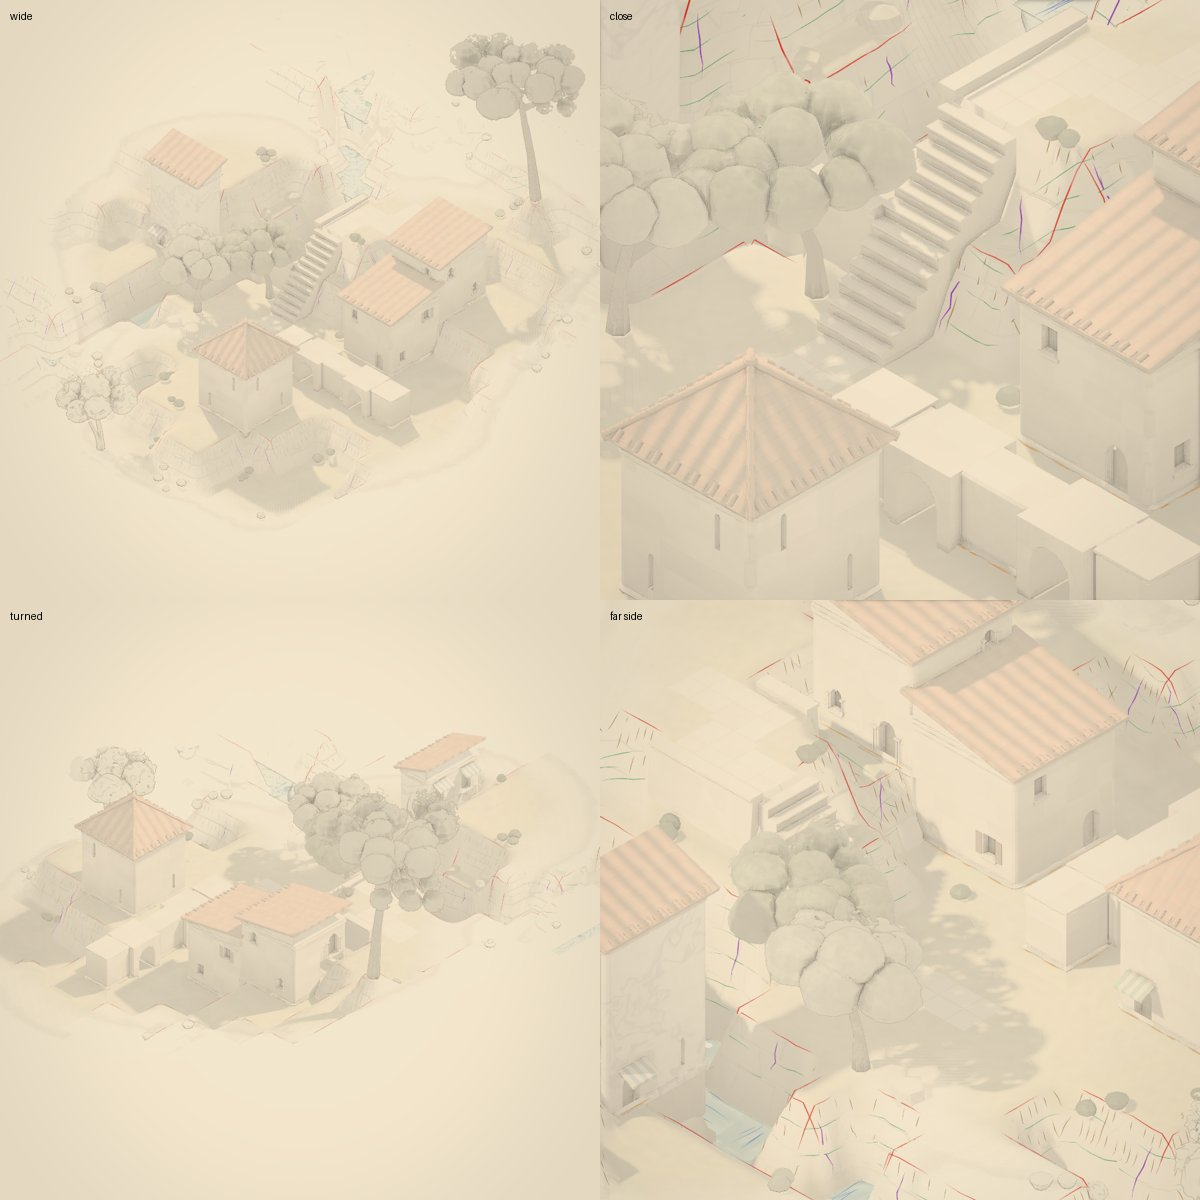
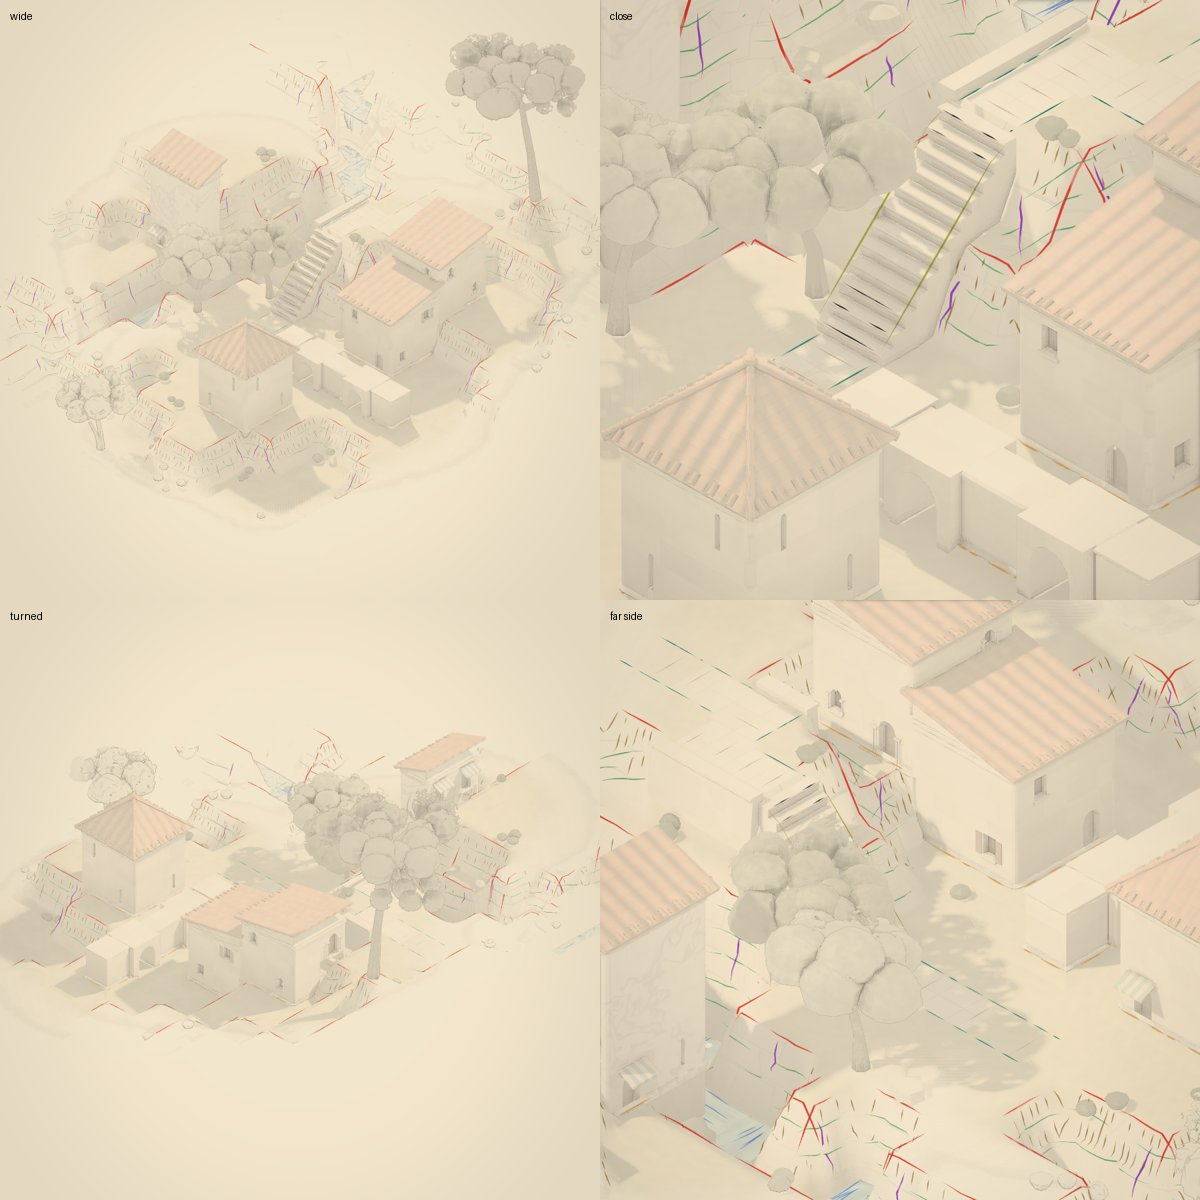
labyrinth: passage marks: treads, strings, way edges and joints, heavier where something happens
From each flight (worn nosings, most at its foot and head; its pitch along
each open side, none between flights laid as one) and each cell a hand-laid
way walks through (edges along its open sides, flag joints across it,
heavier at ends, crossings and where it meets a flight). ?marks colours them;
--print added to the look harness.

Claude-Session: https://claude.ai/code/session_01D2Nx3PayKJtFYoab5A57H3

diff --git a/cells/lab/client/labyrinth/strokes.ts b/cells/lab/client/labyrinth/strokes.ts
@@ -10,6 +10,10 @@
  *   hachures down it between its beds, long and short by turns; its **bedding**, the strata along the face at its
  *   ledges, each a little higher or lower across a **fracture**; and a fracture now and then, a crack down the face;
  * - **retention** (where what's built is founded on the land): its contact, a broken line at its foot;
+ * - **passage** (a flight, and the ways the hand laid, `World.passages`): a flight's worn **tread** nosings, now and
+ *   then, most at its foot and head; its **string**s, its pitch along each side; a way's **edge**s where its sides are
+ *   open, and its flags' **joint**s across it; all heavier where something happens (a way's end, a crossing, where it
+ *   meets a flight), lighter between, so the eye travels along it;
  * - **water**: its **current**, strokes along the way it runs; its **bank**, a line along a steep one; its **fall**,
  *   streaks down the sheet where its bed steps, and the **impact**'s rings in the pool below.
  *
@@ -22,10 +26,10 @@
 import { hash } from '../kit/rng';
 import { outline } from './form';
 import { retaining } from './context';
-import { CENTER, DIRS, type World } from './model';
+import { CENTER, DIRS, unkey, type World } from './model';
 
 /** why a mark is there */
-export const FAM = { rim: 0, hachure: 1, bedding: 2, fracture: 3, contact: 4, current: 5, bank: 6, fall: 7, impact: 8 } as const;
+export const FAM = { rim: 0, hachure: 1, bedding: 2, fracture: 3, contact: 4, current: 5, bank: 6, fall: 7, impact: 8, tread: 9, string: 10, edge: 11, joint: 12 } as const;
 /** a mark's vertex: x, y, z; across it (-1..1); along it (0..1); its family + weight (under 1); how much it holds over
  * the whole picture (0..1); its pick (0..1) */
 export const STROKE_STRIDE = 8;
@@ -177,6 +181,60 @@ export function strokes(w: World, land: StrokeLand): Float32Array {
         ribbon(out, pts, 0.036, FAM.contact, 0.6, 0.3, r());
         s += len + ramp(r, 0.05, 0.3);
       }
+    }
+  }
+
+  // ─── passage: flights and the ways the hand laid ───
+  const smooth = (a: number, b: number, x: number) => { const t = Math.max(0, Math.min(1, (x - a) / (b - a))); return t * t * (3 - 2 * t); };
+  const STEPS = 6;
+  for (const f of w.flights) {
+    const [a, b] = DIRS[f.d], N = f.cells.length * STEPS, [k0, i0, j0] = f.cells[0], r = rng(w.land.seed, k0, i0, j0, f.d, 0x57a);
+    // (a point on the flight: so far up it (u, in cells from its foot's near edge), so far across (wv, 0..1))
+    const pt = (q: number, u: number, wv: number, y: number): V3 => { const [, i, j] = f.cells[q], cx = i + 0.5, cz = j + 0.5; return a ? [cx + a * (u - 0.5) - CENTER, y, cz + (wv - 0.5) - CENTER] : [cx + (wv - 0.5) - CENTER, y, cz + b * (u - 0.5) - CENTER]; };
+    f.cells.forEach(([k], q) => {
+      for (let s = 0; s < STEPS; s++) {
+        const g = q * STEPS + s, busy = 1 - smooth(1, 5, Math.min(g, N - 1 - g)), h = k + (s + 1) / STEPS + 0.008, u = s / STEPS - 0.028;
+        if (r() > 0.18 + 0.72 * busy) continue;
+        // (a tread's worn nosing: whole, or worn through where the feet go, its two ends left)
+        const worn = r() < 0.5, pieces = worn ? [[0.07, ramp(r, 0.3, 0.42)], [ramp(r, 0.58, 0.7), 0.93]] : [[ramp(r, 0.05, 0.15), ramp(r, 0.85, 0.95)]];
+        for (const [w0, w1] of pieces) ribbon(out, [pt(q, u, w0, h), pt(q, u, (w0 + w1) / 2, h), pt(q, u, w1, h)], 0.03, FAM.tread, 0.5 + 0.3 * busy, 0.1, r());
+      }
+    });
+    // (its strings: its pitch along each side that's open, from its foot's nosing to its head's; not between it and a
+    // flight laid beside it, step for step: those two are one broad flight)
+    for (const wv of [0.025, 0.975]) {
+      const sg = wv < 0.5 ? -1 : 1, ox = a ? 0 : sg, oz = a ? sg : 0;
+      if (w.stair(k0, i0 + ox, j0 + oz) === f.d) continue;
+      const pts: V3[] = [];
+      f.cells.forEach(([k], q) => { for (let s = 0; s < STEPS; s += 2) pts.push(pt(q, s / STEPS - 0.028, wv, k + (s + 1) / STEPS + 0.01)); });
+      const [kl] = f.cells[f.cells.length - 1]; pts.push(pt(f.cells.length - 1, 1, wv, kl + 1 + 0.01));
+      ribbon(out, pts, 0.034, FAM.string, 0.6, 0.12, r());
+    }
+  }
+  const walk = (k: number, i: number, j: number) => w.passage(k, i, j) >= 0;
+  for (const [v, dir] of w.passages) {
+    const [k, i, j] = unkey(v);
+    const r = rng(w.land.seed, k, i, j, 0x9a5), y = (k === w.ground(i, j) ? Y(i + 0.5, j + 0.5) + 0.012 : k) + 0.012;
+    const [a, b] = DIRS[dir], [ta, tb] = DIRS[dir + 1];
+    // (how much happens here: a way's end, a crossing, where it meets a flight)
+    const along = [walk(k, i + a, j + b), walk(k, i - a, j - b)].filter(Boolean).length, side = [walk(k, i + ta, j + tb), walk(k, i - ta, j - tb)].filter(Boolean).length;
+    const nearFlight = DIRS.some(([da, db]) => w.stair(k, i + da, j + db) >= 0 || w.stair(k - 1, i + da, j + db) >= 0);
+    const busy = along < 2 || side > 0 || nearFlight ? 1 : 0.3;
+    // (its edges: along each side that's open, broken, set in a little from the cell's edge)
+    for (const sg of [-1, 1]) {
+      if (walk(k, i + ta * sg, j + tb * sg)) continue;
+      for (let s = ramp(r, 0, 0.15); s < 1;) {
+        const len = Math.min(1 - s, ramp(r, 0.3, 0.75)), pts: V3[] = [];
+        for (let q = 0; q <= 3; q++) { const t = s + (len * q) / 3 - 0.5; pts.push([i + 0.5 + a * t + ta * sg * 0.4 - CENTER, y, j + 0.5 + b * t + tb * sg * 0.4 - CENTER]); }
+        ribbon(out, pts, 0.03, FAM.edge, 0.45 + 0.3 * busy, 0.2, r());
+        s += len + ramp(r, 0.04, 0.25 - 0.15 * busy);
+      }
+    }
+    // (its flags' joints across it, a few, more where it's busy)
+    for (const t of [-0.25, 0.25]) {
+      if (r() > 0.25 + 0.5 * busy) continue;
+      const w0 = ramp(r, -0.38, -0.2), w1 = ramp(r, 0.2, 0.38);
+      ribbon(out, [0, 0.5, 1].map((q) => [i + 0.5 + a * t + ta * (w0 + (w1 - w0) * q) - CENTER, y, j + 0.5 + b * t + tb * (w0 + (w1 - w0) * q) - CENTER] as V3), 0.024, FAM.joint, 0.4, 0, r());
     }
   }
 

diff --git a/cells/lab/client/labyrinth/render.ts b/cells/lab/client/labyrinth/render.ts
@@ -639,8 +639,8 @@ void main() {
   float a = cov * weight * mix(.55, 1., dry) * (uMarks > .5 ? 1.2 : mix(persist, 1., drawn));
   if (a < .02) discard;
   // (the land's in sepia; the water's a cooler ink)
-  vec3 col = fam > 4.5 ? vec3(.2, .27, .3) : vec3(.26, .19, .13);
-  if (uMarks > .5) col = fam < .5 ? vec3(.85, .2, .15) : fam < 1.5 ? vec3(.5, .35, .1) : fam < 2.5 ? vec3(.15, .55, .25) : fam < 3.5 ? vec3(.55, .2, .7) : fam < 4.5 ? vec3(.9, .5, .1) : fam < 5.5 ? vec3(.15, .35, .8) : fam < 6.5 ? vec3(.1, .6, .6) : fam < 7.5 ? vec3(.4, .2, .8) : vec3(.9, .3, .6);
+  vec3 col = fam > 4.5 && fam < 8.5 ? vec3(.2, .27, .3) : vec3(.26, .19, .13);
+  if (uMarks > .5) col = fam < .5 ? vec3(.85, .2, .15) : fam < 1.5 ? vec3(.5, .35, .1) : fam < 2.5 ? vec3(.15, .55, .25) : fam < 3.5 ? vec3(.55, .2, .7) : fam < 4.5 ? vec3(.9, .5, .1) : fam < 5.5 ? vec3(.15, .35, .8) : fam < 6.5 ? vec3(.1, .6, .6) : fam < 7.5 ? vec3(.4, .2, .8) : fam < 8.5 ? vec3(.9, .3, .6) : fam < 9.5 ? vec3(.1, .1, .1) : fam < 10.5 ? vec3(.55, .55, .1) : fam < 11.5 ? vec3(.05, .45, .35) : vec3(.6, .45, .35);
   oCol = vec4(col, min(1., a)); oNrm = vec4(0.);
 }`;
 const POST_VS = `#version 300 es

diff --git a/cells/lab/static/labyrinth-look.md b/cells/lab/static/labyrinth-look.md
@@ -155,15 +155,17 @@ The first step of the architecture Astra's comparison with Taohua proposed: the 
 | --- | --- | --- |
 | escarpment | a run of cell edges where the land drops a level or more, the same way (not held by a wall, not built against) | a broken **rim** along the top, firmer the higher it is; **hachures** down the face, long and short by turns, interrupted at each bed; **bedding** along the face at the ledges the mesh steps it into, a little higher or lower across each fracture; a **fracture** down it now and then |
 | retention | a column built on the land, its open faces | its **contact**, a broken line at its foot, on the land banked up to it |
+| passage | each flight (`World.flights`), and each cell a hand-laid way walks through (`World.passages`), its level and its direction | a flight's worn **tread** nosings, now and then, most at its foot and head; its **string**s, its pitch along each open side (not between two flights laid side by side as one); a way's **edge**s along its open sides and its flags' **joint**s across it, heavier at its ends, crossings and where it meets a flight |
 | water | the stream's cells, their order, their neighbours | **current** along the way it runs (crowding the outer side at a bend); a steep **bank**'s line; a **fall**'s streaks where the bed steps; the **impact**'s rings below |
 
 - **Each family has its own presence over the full render:** a rim holds some, a hachure none, since the render already says what a hachure would. Where the drawing takes over, all of a mark is laid. Where it thins out, whole marks are left out by their pick, never faded.
 - **Retired:** the shader's hachures, the cliff drags, the rim line it found from a depth fold, and the post pass's lines on the land's own folds.
 - **Kept, for now:** the shader's contours and its tonal washes.
-- **`?marks`** (and `--marks` in the look harness) fades the picture nearly to the paper and colours each mark by its family: rim red, hachure brown, bedding green, fracture purple, contact orange, current blue, bank teal, fall violet, impact pink.
+- **`?marks`** (and `--marks` in the look harness) fades the picture nearly to the paper and colours each mark by its family: rim red, hachure brown, bedding green, fracture purple, contact orange, current blue, bank teal, fall violet, impact pink, tread black, string olive, edge dark teal, joint tan.
+- **Passages barely show near what's built,** where a way is rendered (its marks hold a little at most). Where a way runs out into the drawing, they're how it carries on: edges, joints, treads. That's the sheets' "surface → edges → implied route". Print (`--print`) shows them everywhere.
 
 Next, in the order the comparison proposed:
-1. **Passage marks:** stair treads and landings, and path edges, heavier where something happens.
+1. **The shade's hatching made feature-driven.** It's still the shader's, laid uniformly over every shadow, and it's what most dominates print. Recesses, undersides and occlusion behind a feature should be hatched; open shade should be left to the wash.
 2. **The land conditioned by construction:** the geology kept as it was made, and a second surface derived from it that what's built has cut and filled (excavation, embankment, retained earth), with the marks read from that. To be tried first on a single stair and crossing.
 3. **Each channel's persistence by its feature,** in place of one ramp position for nearly everything.
 4. **An outline policy by material.**
